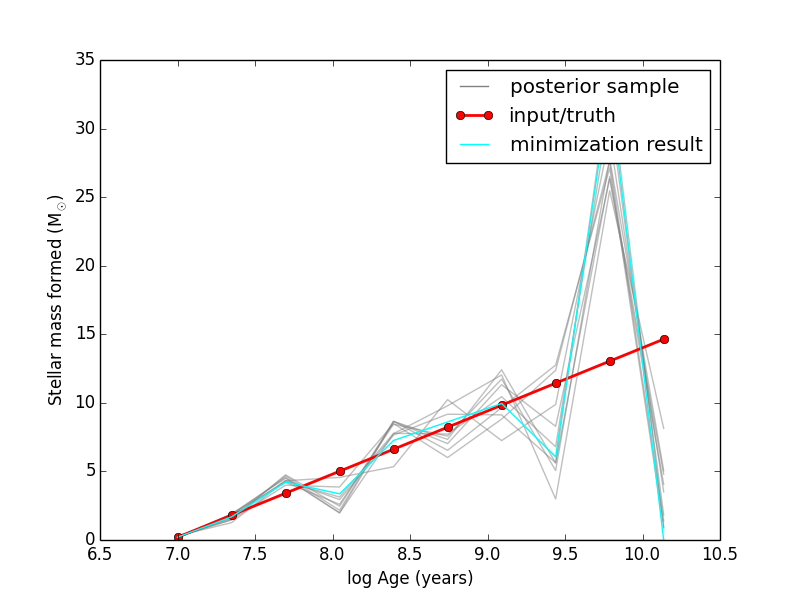
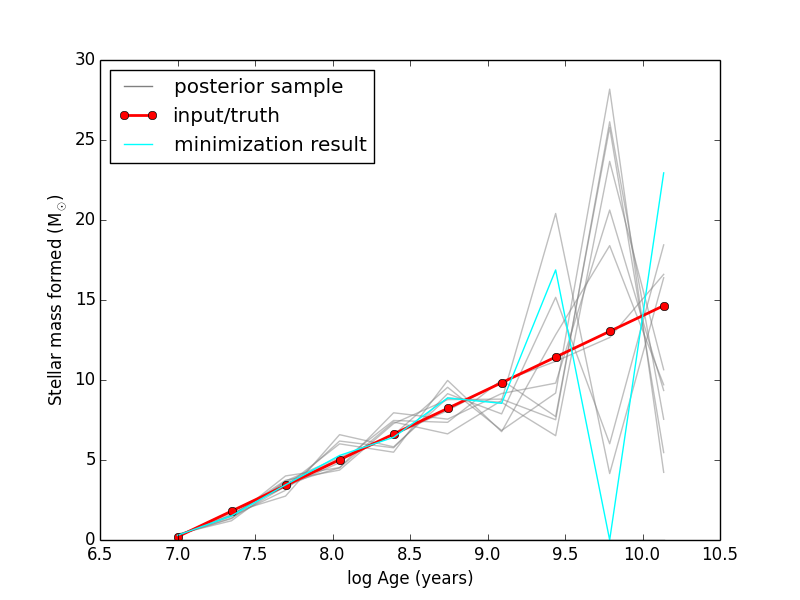
adding documentation

diff --git a/sps_basis.py b/sps_basis.py
@@ -11,7 +11,10 @@ lightspeed = 2.998e18 #AA/s
 to_cgs = lsun/(4.0 * np.pi * (pc*10)**2 )
 
 class StellarPopBasis(object):
-
+    """A class that wraps the python-fsps StellarPopulation object in order to include
+    more functionality and to allow 'fast' model generation in some situations by storing
+    an easily accessible spectral grid."""
+    
     def __init__(self, smooth_velocity = True):
         #this is a StellarPopulation object from fsps
         self.ssp = fsps.StellarPopulation(smooth_velocity = smooth_velocity)
@@ -29,7 +32,31 @@ class StellarPopBasis(object):
         
     def get_spectrum(self, params, outwave, filters):
         """
-        Return a spectrum for the given parameters.
+        Return a spectrum for the given parameters.  If necessary the SSPs are
+        updated, and if necessary the component spectra are updated, before
+        being combined here.
+
+        :params params:
+            A dictionary-like of the model parameters.
+            
+        :params outwave: 
+            The output wavelength points at which model estimates are
+            desired, ndarray of shape (nwave,)
+            
+        :params filters:
+             A list of filters in which synthetic photometry is desired.
+             List of length (nfilt,)
+
+        :returns spec:
+            The spectrum at the wavelength points given by outwave, ndarray
+            of shape (nwave,).  Units are L_sun/AA
+            
+        :returns phot:
+            The synthetc photometry through the provided filters, ndarray
+            of shape (nfilt,).  Note, the units are *absolute maggies*.
+
+        :returns extra:
+            Any extra parameters (like stellar mass) that you want to return
         """
         cspec, cphot, cextra = self.get_components(params, outwave, filters)
 
@@ -42,7 +69,29 @@ class StellarPopBasis(object):
     def get_components(self, params, outwave, filters):
         """
         Return the component spectra for the given parameters,
-        making sure to update the components if necessary
+        making sure to update the components if necessary.
+
+        :params params:
+            A dictionary-like of the model parameters.
+            
+        :params outwave: 
+            The output wavelength points at which model estimates are
+            desired, ndarray of shape (nwave,)
+            
+        :params filters:
+             A list of filters in which synthetic photometry is desired.
+             List of length (nfilt,)
+
+        :returns cspec:
+            The spectrum at the wavelength points given by outwave, ndarray
+            of shape (ncomp,nwave).  Units are L_sun/AA
+            
+        :returns phot:
+            The synthetc photometry through the provided filters, ndarray
+            of shape (ncomp,nfilt).  Note, the units are *absolute maggies*.
+
+        :returns extra:
+            Any extra parameters (like stellar mass) that you want to return
         """
 
         params['outwave'] = outwave
@@ -65,7 +114,14 @@ class StellarPopBasis(object):
         This is basically a proxy for COMPSP from FSPS, with a few small differences.
         In particular, there is interpolation in metallicity and the redshift and
         the output wavelength grid are taken into account.  The dust treatment is
-        less sophiticated.
+        less sophisticated.
+
+        This method is only called by self.update if necessary.
+
+        :params outwave: 
+            The output wavelength points at which model estimates are
+            desired, ndarray of shape (nwave,)
+
         """
         #setup the internal component basis arrays
         inwave = self.ssp.wavelengths
@@ -100,10 +156,10 @@ class StellarPopBasis(object):
         
     def update(self, inparams):
         """Update the parameters, recording whether it was new
-        for the ssp or basis parameters.  If those changed,
+        for the ssp or basis parameters.  If either of those changed,
         regenerate the relevant spectral grid(s).
         """
-        ssp_dirty, basis_dirty = False, False
+        
         for k,v in inparams.iteritems():
             if k in self.ssp_params:
                 try:

diff --git a/demo/sfh/sfh_results_plot.py b/demo/sfh/sfh_results_plot.py
@@ -5,20 +5,21 @@ import triangle
 
 
 
-def results_plot(sample_file, outname = 'demo', nspec = 10, nsfh = 20, sps =None, start =0, thin =1):
+def results_plot(sample_file, outname = 'demo', nspec = 10, nsfh = 40, sps =None, start =0, thin =1):
     
     sample_results = pickle.load( open(sample_file, 'rb'))
     model = sample_results['model']
     parnames = theta_labels(model.theta_desc)
-    chain = sample_results['chain'][start::thin,:]
-    nchain, ndim = chain.shape
-    flatchain = chain.reshape(nchain, ndim)
+    flatchain = sample_results['chain'][start::thin,:]
+    nchain, ndim = flatchain.shape
+    #flatchain = chain.reshape(nchain, ndim)
     obs = sample_results['obs']
-    model.sps = sps
+    sps.update(model.params)
+
 #plot a triangle plot
     fig = triangle.corner(flatchain,labels = parnames,
-                        quantiles=[0.16, 0.5, 0.84], verbose =False,
-                        truths = sample_results['mock_input_theta'])
+                          quantiles=[0.16, 0.5, 0.84], verbose =False,
+                          truths = sample_results['mock_input_theta'])
     fig.savefig('{0}_triangle.png'.format(outname))
     pl.close()
 
@@ -39,7 +40,7 @@ def results_plot(sample_file, outname = 'demo', nspec = 10, nsfh = 20, sps =None
 
     pl.xlabel('log Age (years)')
     pl.ylabel(r'Stellar mass formed (M$_\odot$)')
-    pl.legend(loc = 'upper right')
+    pl.legend(loc = 'upper left')
     pl.xlim(6.5, 10.5)
     pl.savefig('{0}_sfh.png'.format(outname))
     pl.close(1)
@@ -49,7 +50,7 @@ def results_plot(sample_file, outname = 'demo', nspec = 10, nsfh = 20, sps =None
     rindex = np.random.uniform(0, nchain, nspec).astype( int )
 
     pl.plot(obs['wavelength'], obs['spectrum'],
-            color = 'blue', linewidth = 1.5, label = 'observed')
+            color = 'blue', linewidth = 1.5, label = 'observed, S/N=50')
     pl.plot(obs['wavelength'], model.model(flatchain[rindex[0],:], sps =sps)[0]*0.,
             color = 'green', alpha = 0.5, label = 'model ({0} samples)'.format(nspec))
     for i in range(nspec-1):
@@ -63,8 +64,35 @@ def results_plot(sample_file, outname = 'demo', nspec = 10, nsfh = 20, sps =None
     pl.legend()
     pl.savefig('{0}_spectrum.png'.format(outname), dpi = 300)
     pl.close()
-    
 
+#plot components
+    ncolors = len(sps.params['tage'])
+    cm = pl.get_cmap('gist_rainbow')
+    fig = pl.figure()
+    ax = fig.add_subplot(111)
+    ax.set_color_cycle([cm(1.*i/ncolors) for i in range(ncolors)])
+
+    ax.plot(obs['wavelength'],model.model(sample_results['mock_input_theta'], sps =sps)[0],
+            label = 'total spectrum', color ='black')
+    for i,(t,m) in enumerate(zip(sps.params['tage'], sample_results['mock_input_theta'])):
+        color = cm(1.*(ncolors-i -1)/ncolors)
+        ax.plot(sps.ssp.wavelengths, m * sps.basis_spec[i,:],
+                label = 'log(Age) = {0:4.2f}'.format(np.log10(t*1e9)),
+                color =color)
+        
+    ax.set_ylabel(r'L$_\odot/\AA$')
+    ax.set_xlabel(r'wavelength ($\AA$)')
+    ax.set_xlim(3000,10000)
+    ax.legend(loc ='lower right', prop ={'size':8})
+    ax.set_yscale('log')
+    ax.set_ylim(1e-6,1e-1)
+    ax.set_title('Components of the total spectrum')
+    pl.savefig('{0}_components.png'.format(outname), dpi = 300)
+    pl.close()
+
+    return sample_results, flatchain, model
+
+    
 def theta_labels(desc):
     label, index = [], []
     for p in desc.keys():

diff --git a/sedmodel.py b/sedmodel.py
@@ -10,22 +10,24 @@ class ThetaParameters(object):
             self.set_parameters(theta_init)
         for k,v in kwargs.iteritems():
             self.params[k] = np.atleast_1d(v)
-            
+
+        self._ndim = None
+        
     @property
     def ndim(self):
         #should probably cache this
-        ndim = 0
-        for p, v in self.theta_desc.iteritems():
-            ndim += v['N']
-        return ndim
+        if self._ndim is None:
+            self._ndim = 0
+            for p, v in self.theta_desc.iteritems():
+                self._ndim += v['N']
+        return self._ndim
             
     def set_parameters(self, theta):
-        """Propagate theta into the model parameters"""
+        """Propagate theta into the model parameters."""
         assert len(theta) == self.ndim
         for p, v in self.theta_desc.iteritems():
             start, end = v['i0'], v['i0'] + v['N']
             self.params[p] = np.array(theta[start:end])
-
         
     def prior_product(self, theta):
         """

diff --git a/demo/sfh/bsfh_demo.py b/demo/sfh/bsfh_demo.py
@@ -10,7 +10,7 @@ import hmc, priors
 import observate, attenuation
 import sps_basis, sedmodel
 
-snr = 50.  #Signal/Noise ratio
+snr = 50.  #Signal/Noise ratio of the mock
 nage = 10  #number of ages to model
 logt0 = 7.0
 dlogt = (np.log10(13.7e9) - 7.0) / (nage-1)
@@ -149,7 +149,7 @@ results['obs'] = model.obs
 results['theta'] = model.theta_desc
 results['initial_center'] = hinitial
 results['chain'] = sampler.chain
-results['lnprobability'] = sampler.lnprobability
+results['lnprobability'] = sampler.lnprob
 results['acceptance'] = sampler.acceptance_fraction
 results['duration'] = dur
 model.sps = None
